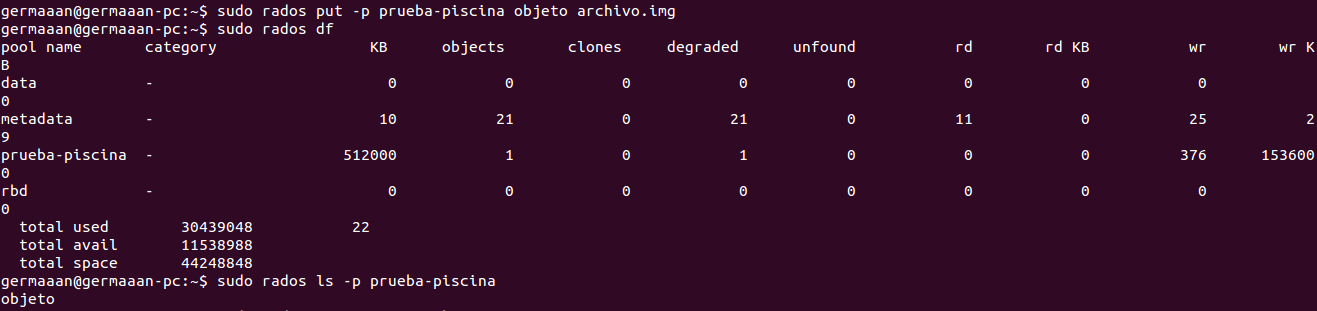
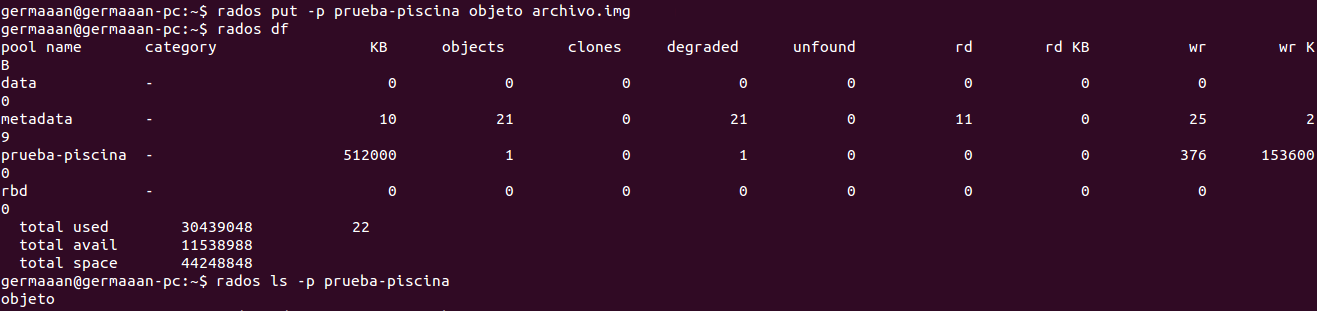
Completado ejercicio 7

Changed region(s): [[0.1557, 0.0, 0.5292, 0.1158], [0.1557, 0.8682, 0.3736, 0.926]]

diff --git a/TEMA4/ejercicio07.md b/TEMA4/ejercicio07.md
@@ -1,16 +1,25 @@
 # Ejercicios 7:
 ### Almacenar objetos y ver la forma de almacenar directorios completos usando ceph y rados. 
 
-Para almacenar los objetos en **rados** lo primero que deberemos es crear una piscina (`sudo rados mkpool prueba-piscina`) y comprobar que se ha creado (`rados lspools`):
+Para almacenar los objetos en **rados** lo primero que deberemos es crear una piscina (`rados mkpool prueba-piscina`) y comprobar que se ha creado (`rados lspools`):
 
 ![eje07_img01](imagenes/eje07_img01.png)
 
-Como todavía no hemos almacenado nada en la piscina, podemos ver que su contenido es vacío (`sudo rados df`):
+Como todavía no hemos almacenado nada en la piscina, podemos ver que su contenido es vacío (`rados df`):
 
 ![eje07_img02](imagenes/eje07_img02.png)
 
-Ahora introducimos cualquier archivo que tengamos en nuestro sistema (ejemplo: `sudo rados put -p prueba-piscina objeto archivo.img`). Ahora vemos que el tamaño ocupado de nuestra piscina ha aumentado (`sudo rados df`) y listando el contenido de la piscina, aparece el archivo que hemos almacenado (`sudo rados ls -p prueba-piscina`):
+Ahora introducimos cualquier archivo que tengamos en nuestro sistema (ejemplo: `rados put -p prueba-piscina objeto archivo.img`). Ahora vemos que el tamaño ocupado de nuestra piscina ha aumentado (`rados df`) y listando el contenido de la piscina, aparece el archivo que hemos almacenado (`rados ls -p prueba-piscina`):
 
 ![eje07_img03](imagenes/eje07_img03.png)
 
-Para almacenar directorios completos...
+En el caso de que queramos almacenar directorios completos, como **rados** no permite almacenar un directorio como tal, podríamos empaquetar en un **tar** todo los archivos del directorio y subirlos con el nombre de dicho directorio como objeto a la piscina:
+
+```
+tar cvf prueba.tar *
+rados put -p prueba-piscina prueba prueba.tar
+rados ls -p prueba-piscina
+rados df
+```
+
+![eje07_img04](imagenes/eje07_img04.png)
